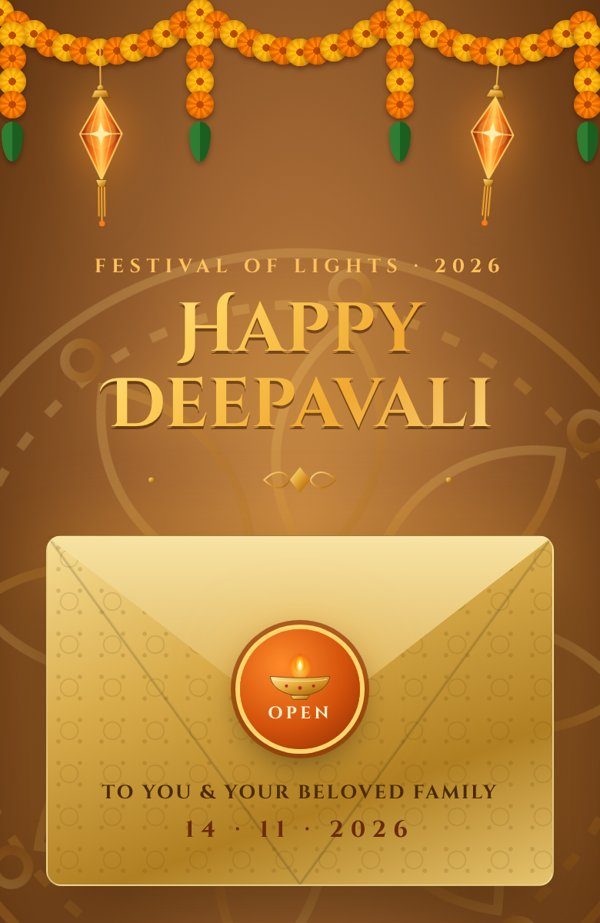
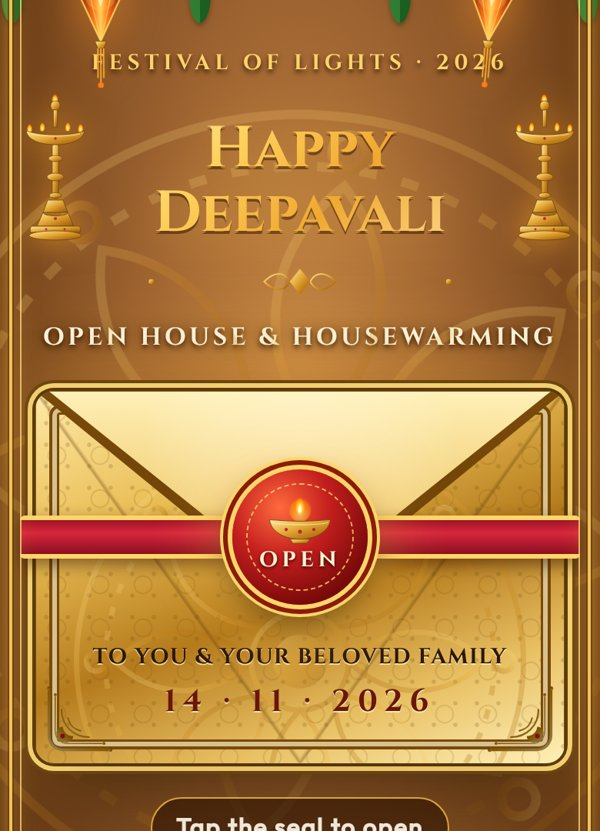
Connect RSVP form to the Google Sheet
Also point the WhatsApp preview at the GitHub Pages address and
refresh the preview image with the new envelope.

Claude-Session: https://claude.ai/code/session_014ziKatnzRsJMZRYQMU7ncz

diff --git a/index.html b/index.html
@@ -7,9 +7,10 @@
 <meta name="description" content="You and your family are warmly invited to our Deepavali Open House &amp; Housewarming, Saturday 14 November 2026, 6pm – 10pm, Bandar Gamuda Cove, Banting.">
 <meta name="theme-color" content="#7a4a1e">
 <meta property="og:type" content="website">
-<meta property="og:title" content="Happy Deepavali · Open House &amp; Housewarming">
-<meta property="og:description" content="Saturday · 14 November 2026 · 6pm – 10pm · Bandar Gamuda Cove, Banting">
-<meta property="og:image" content="assets/og-image.jpg">
+<meta property="og:title" content="Happy Deepavali · Mahendran &amp; Family invite you">
+<meta property="og:description" content="Deepavali Open House &amp; Housewarming · Saturday 14 November 2026 · 6pm – 10pm · Bandar Gamuda Cove, Banting">
+<meta property="og:image" content="https://profnav18.github.io/Deepevali_Housewarming/assets/og-image.jpg">
+<meta property="og:url" content="https://profnav18.github.io/Deepevali_Housewarming/">
 <link rel="preconnect" href="https://fonts.googleapis.com">
 <link rel="preconnect" href="https://fonts.gstatic.com" crossorigin>
 <link rel="stylesheet" href="https://fonts.googleapis.com/css2?family=Cinzel:wght@400;600;700&family=Cormorant+Garamond:ital,wght@0,500;0,600;0,700;1,600;1,700&family=Great+Vibes&family=Outfit:wght@300;400;500&display=swap">

diff --git a/js/config.js b/js/config.js
@@ -51,7 +51,7 @@ window.INVITE = {
 
   // --- RSVP (Google Sheets) ---
   // Paste the Google Apps Script Web App URL here (ends with /exec). Empty = demo mode.
-  rsvpApiUrl: "",
+  rsvpApiUrl: "https://script.google.com/macros/s/AKfycbw3_vPHW5-r7RZE84CXAPehEEiKDvAscAi9Raxy0Ml7kl3KpBeOixYqZBZOm5x5in9Tiw/exec",
   maxPax: 10,
   rsvpDeadline: "Kindly RSVP by 7 November 2026",
 
